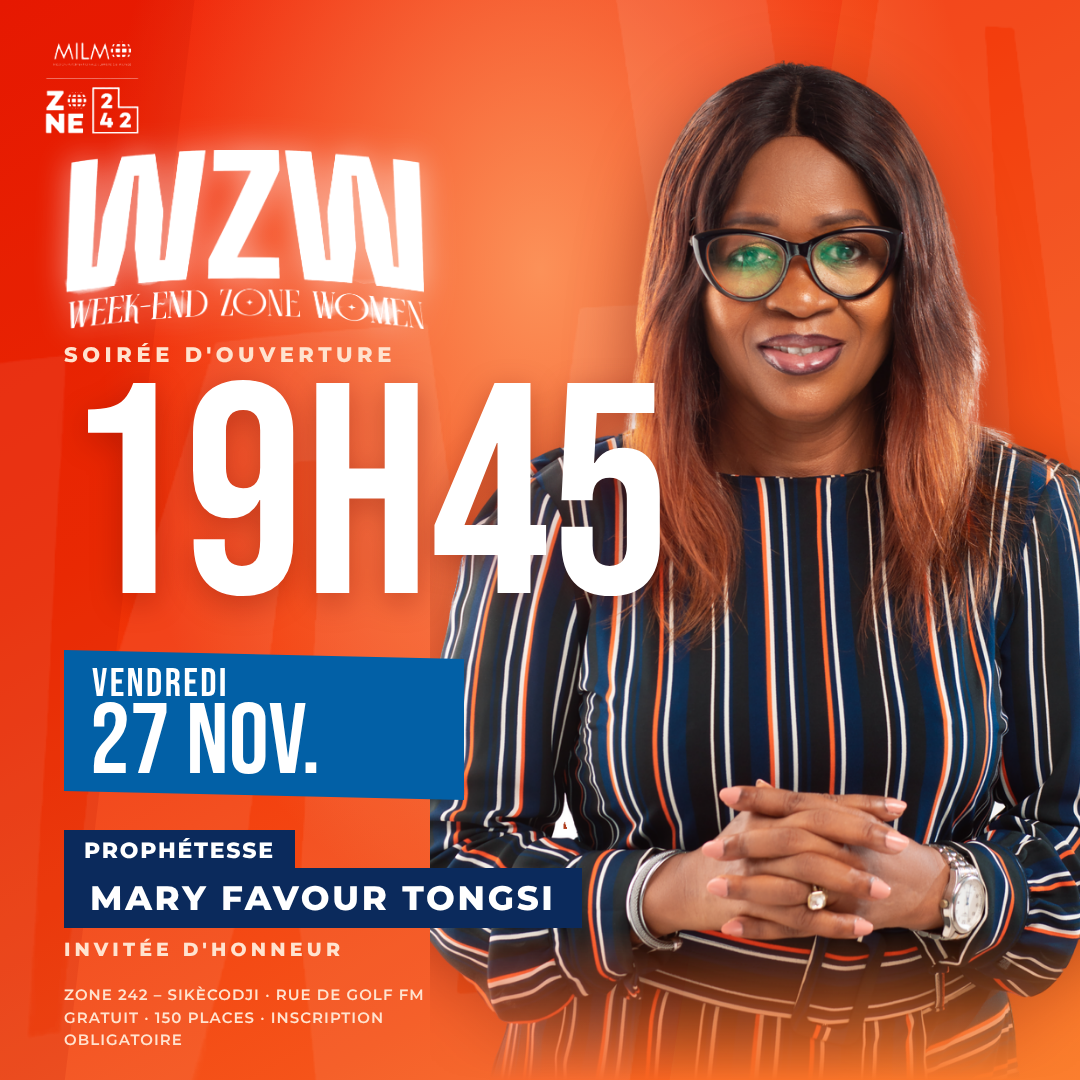
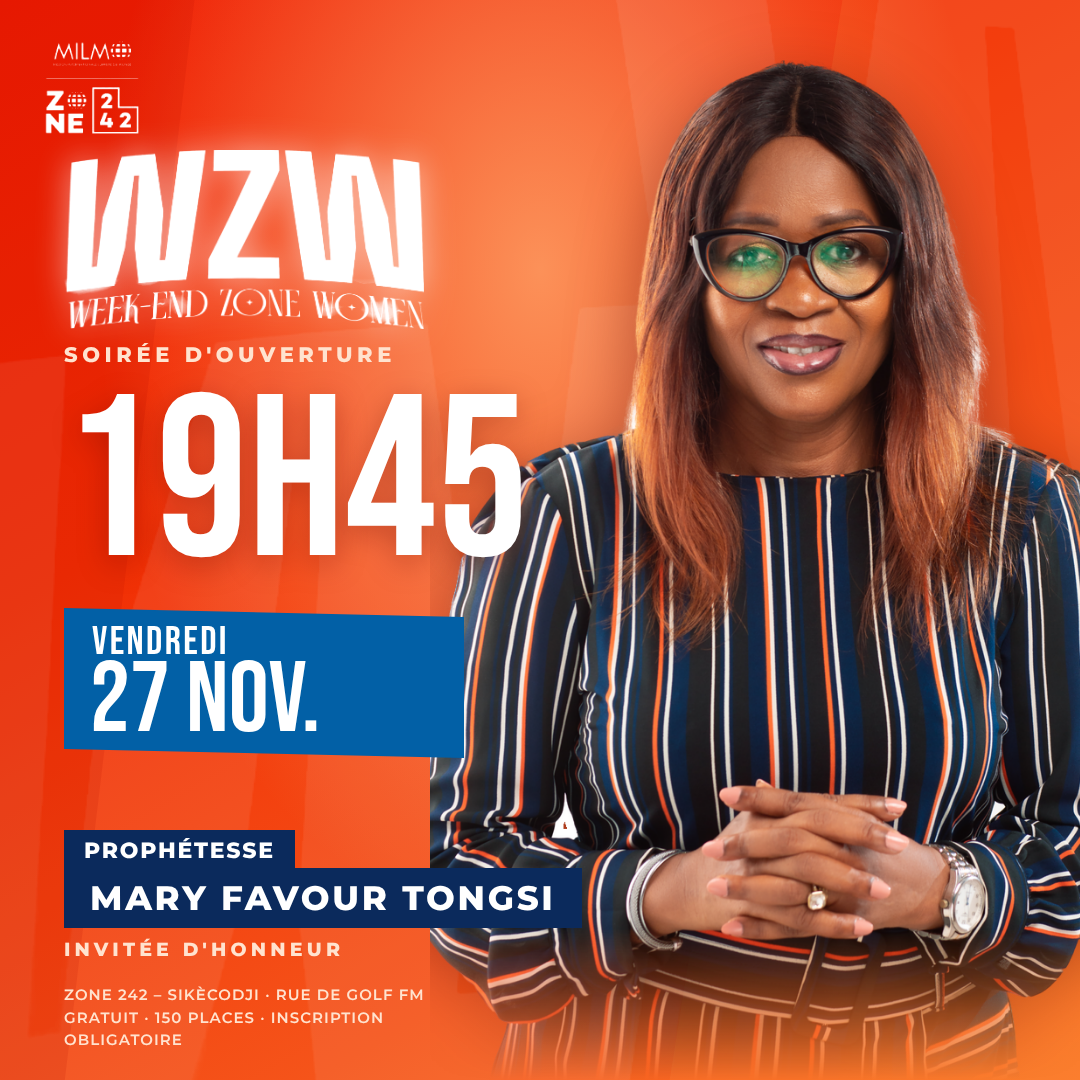
Affiche du vendredi : variante B retenue, heure réduite
Claude-Session: https://claude.ai/code/session_01MwjzxB6vNBUzfK55D3M67f

Changed region(s): [[0.0611, 0.3361, 0.6111, 0.7639]]

diff --git a/zone242-com-session/livrables/scripts-sources/affiche_vendredi_variantes.py b/zone242-com-session/livrables/scripts-sources/affiche_vendredi_variantes.py
@@ -37,10 +37,10 @@ V["B"] = BG + LOGOS + f'''
 <div class="a" style="left:430px;top:0;width:650px;height:1080px;overflow:hidden;{MASK(86)}"><img class="mary" src="mary.png" style="position:absolute;left:-30px;top:60px;height:1100px"></div>
 <img class="a lock" src="lockup.png" style="left:64px;top:150px;width:360px">
 <div class="a ft" style="left:64px;top:342px;font-size:21px;letter-spacing:.22em">SOIRÉE D'OUVERTURE</div>
-<div class="a" style="left:64px;top:380px;font-size:300px;line-height:.82;color:#fff;text-shadow:0 8px 30px rgba(110,10,0,.35)">19H45</div>
-<div class="a" style="left:64px;top:650px;width:400px;height:150px;background:#0260a6;clip-path:polygon(0 0,100% 6%,100% 100%,0 94%)"></div>
-<div class="a" style="left:92px;top:664px;font-size:40px;line-height:1;letter-spacing:.06em">VENDREDI</div>
-<div class="a" style="left:90px;top:698px;font-size:100px;line-height:.9">27 NOV.</div>
+<div class="a" style="left:64px;top:392px;font-size:230px;line-height:.82;color:#fff;text-shadow:0 8px 30px rgba(110,10,0,.35)">19H45</div>
+<div class="a" style="left:64px;top:608px;width:400px;height:150px;background:#0260a6;clip-path:polygon(0 0,100% 6%,100% 100%,0 94%)"></div>
+<div class="a" style="left:92px;top:622px;font-size:40px;line-height:1;letter-spacing:.06em">VENDREDI</div>
+<div class="a" style="left:90px;top:656px;font-size:100px;line-height:.9">27 NOV.</div>
 <div class="a ft" style="left:64px;top:810px;font-size:0px"></div>
 <div class="a" style="left:64px;top:830px"><span class="lab" style="font-size:22px;padding:7px 20px">PROPHÉTESSE</span></div>
 <div class="a" style="left:64px;top:868px"><span class="lab" style="font-size:34px;padding:9px 26px">MARY FAVOUR TONGSI</span></div>
